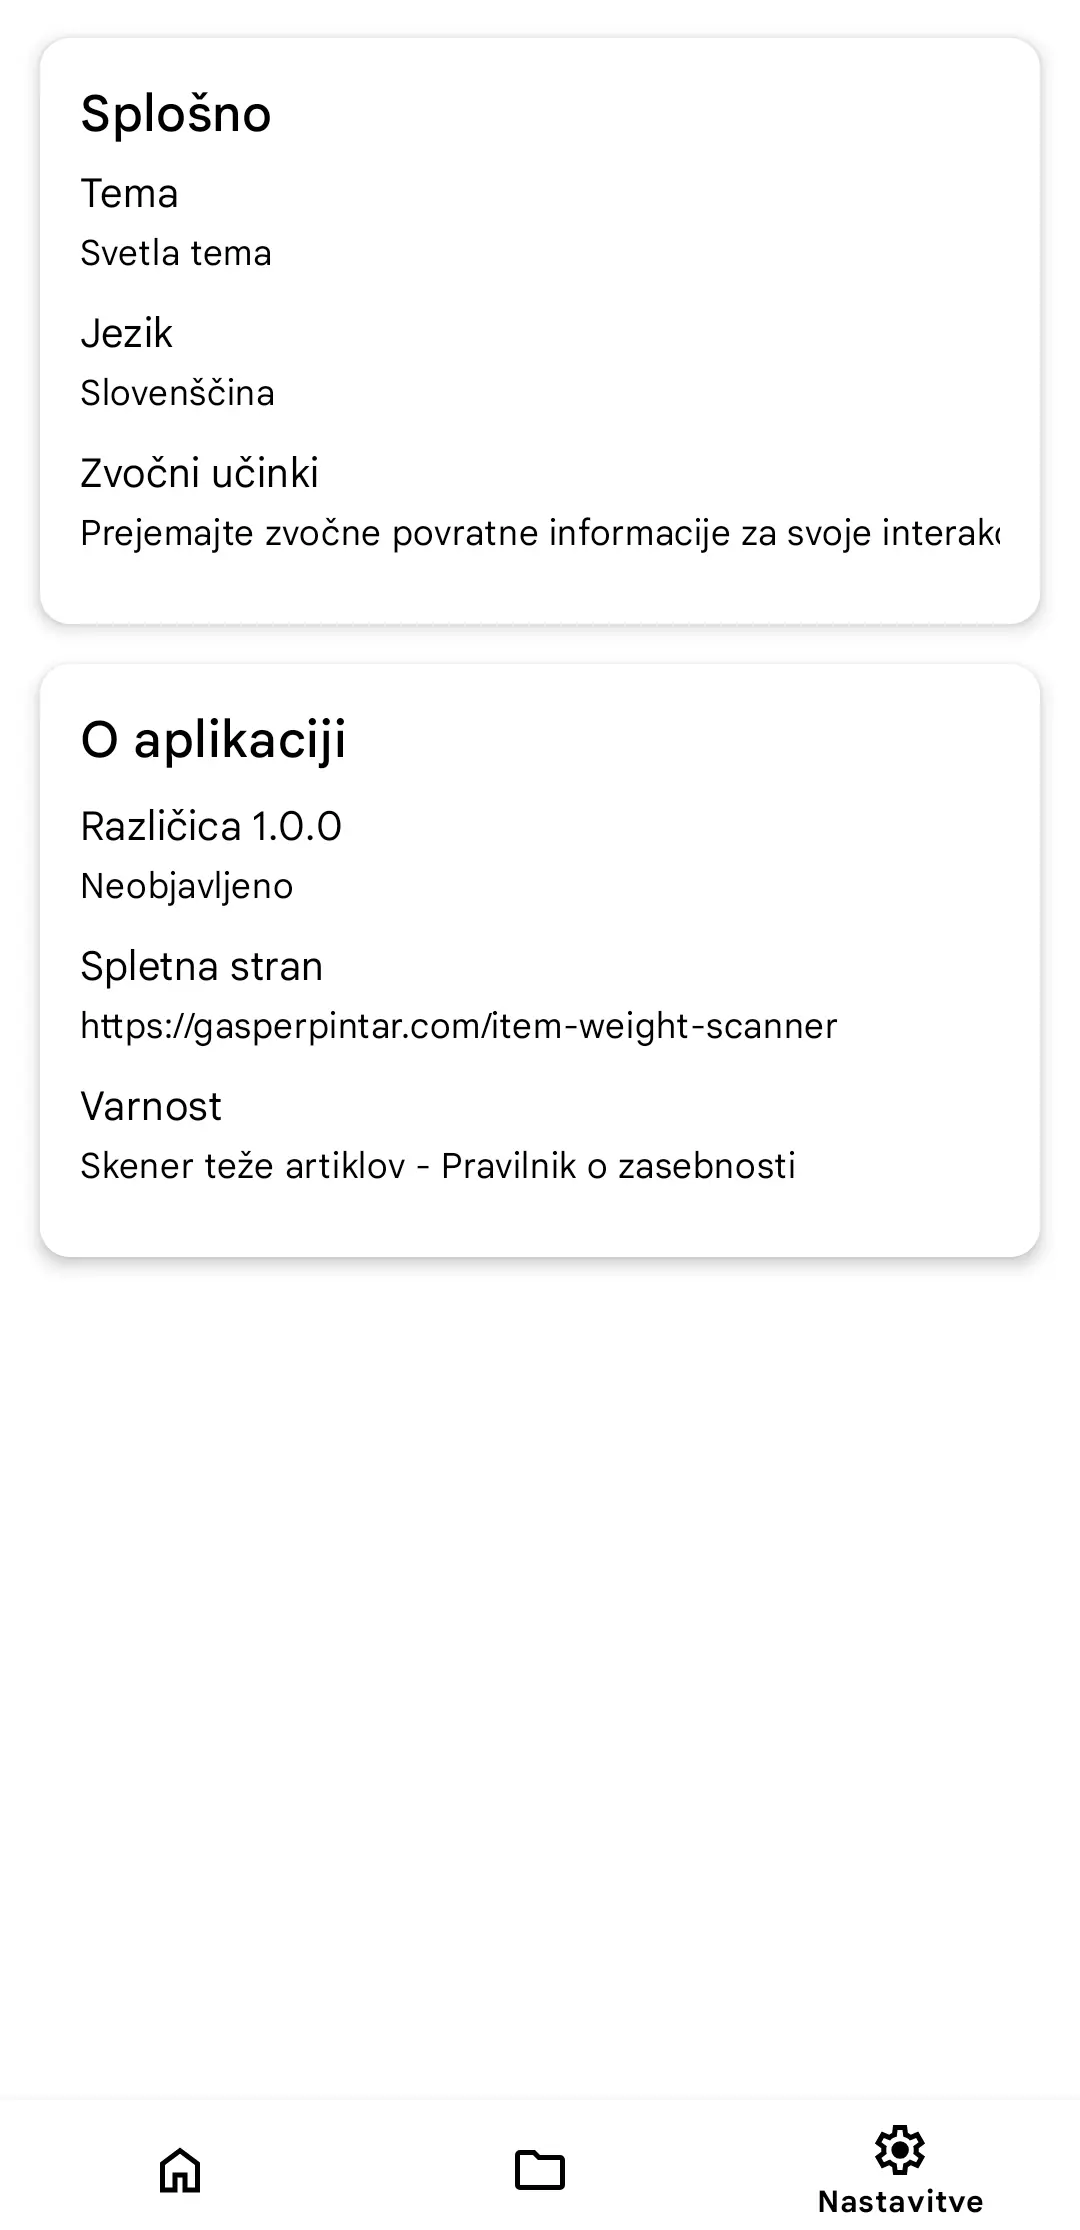
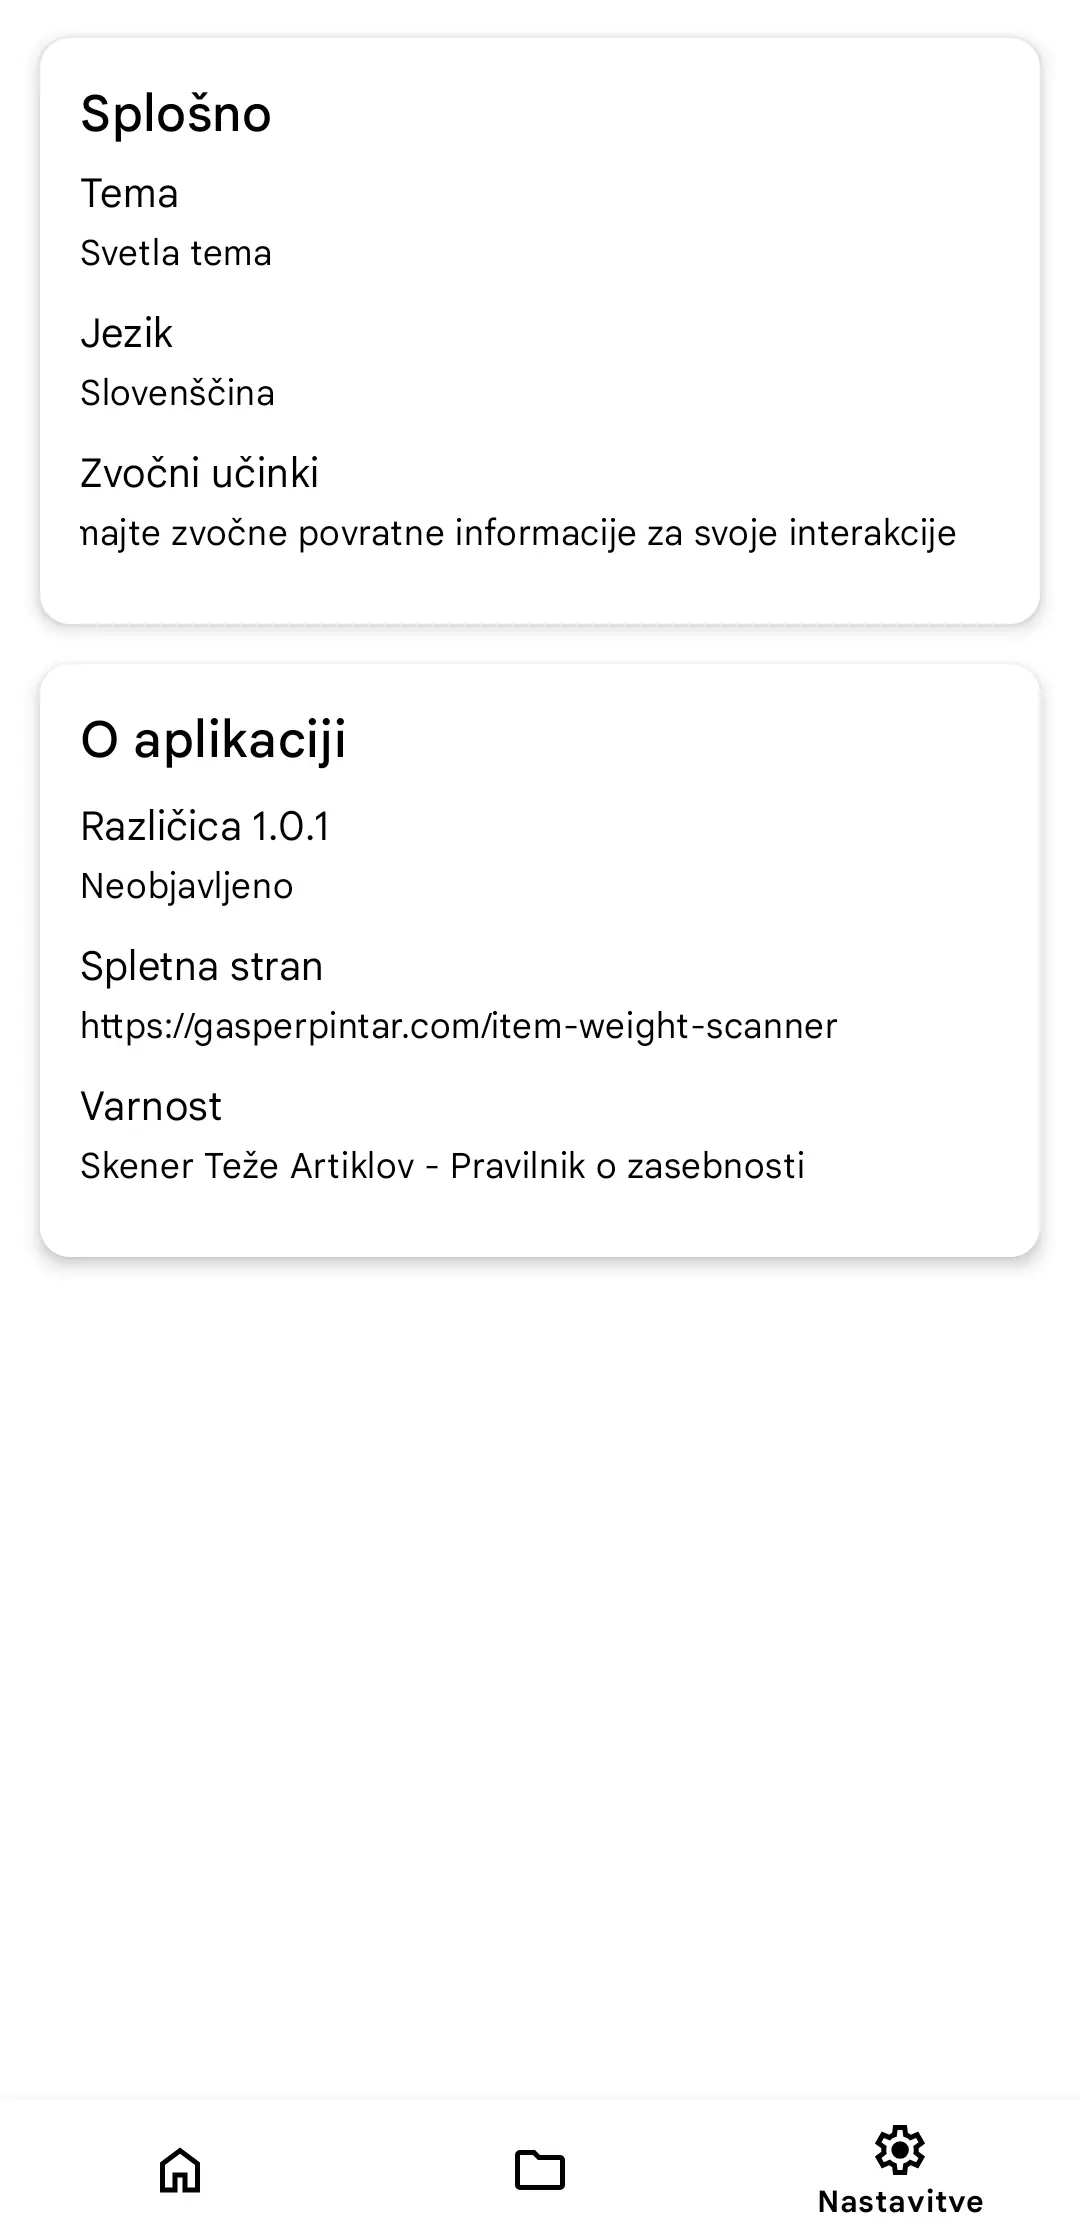
Update Item Weight Scanner page

diff --git a/app/[locale]/item-weight-scanner/page.tsx b/app/[locale]/item-weight-scanner/page.tsx
@@ -117,7 +117,8 @@ const SmokingTracker: () => void = async (): Promise<JSX.Element> => {
                         <div className={"col-md-8"}>
                             <h1 className={"display-5 fw-bold"}>{t("title")}</h1>
                             <p className={"mb-0"}>
-                                {t("version")}: {appVersion as string}
+                                {t("version")}: {(appVersion as VersionEntryObject).stable}<br/>
+                                {/*t("latest-version")}: {(appVersion as VersionEntryObject).latest*/}
                                 <span className={"d-block text-muted"}>{t("available-on")}</span>
                             </p>
                             <div className={"mt-3"}>
